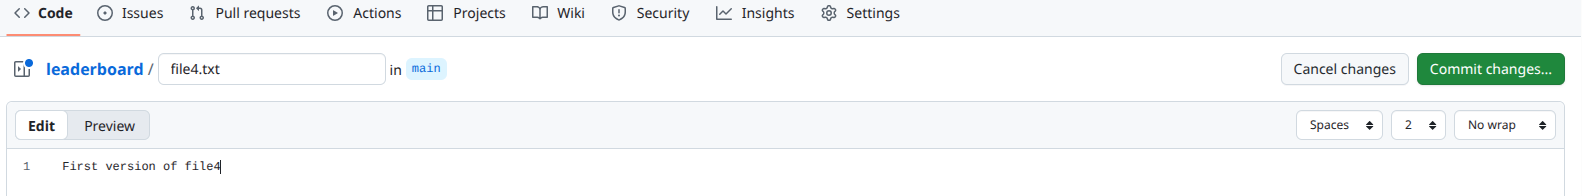
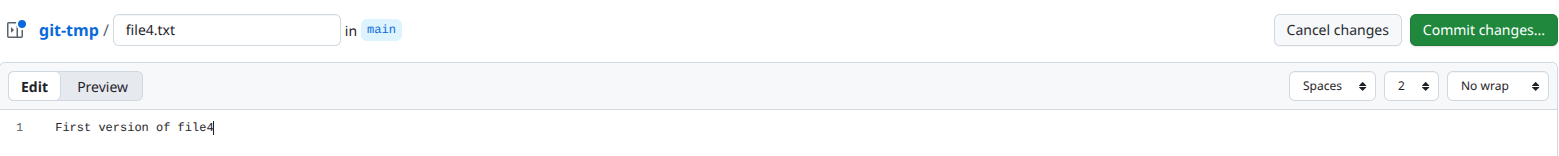
update

diff --git a/README.md b/README.md
@@ -457,7 +457,7 @@ Go to ```https://git.soton.ac.uk```.
 -->
 Got to ```https://github.com```.
 1. In the top right click "New"
-2. In "Repository Name" write ```leaderboard```
+2. In "Repository Name" write ```git-tmp```
 3. In "Choose Visibility" select ```private```
 4. In the bottom click "Create Repository"
    
@@ -465,7 +465,7 @@ Next we want to inform git of the remote repository
 ```bash
 git remote add origin URL
 ```
-Here we gave it the name origin (instead of using URL every time). In this case the URL is of the form ```https://github.com/username/leaderboard``` which you can copy directly from the browser address bar.
+Here we gave it the name origin (instead of using URL every time). In this case the URL is of the form ```https://github.com/username/git-tmp``` which you can copy directly from the browser address bar.
 
 At this point the remote repository has no branches. Next we want to setup remote branches to be tracked by the local ones.
 ```bash
